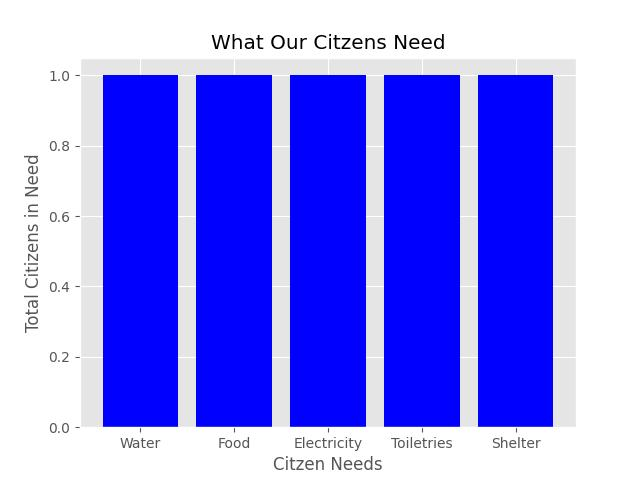
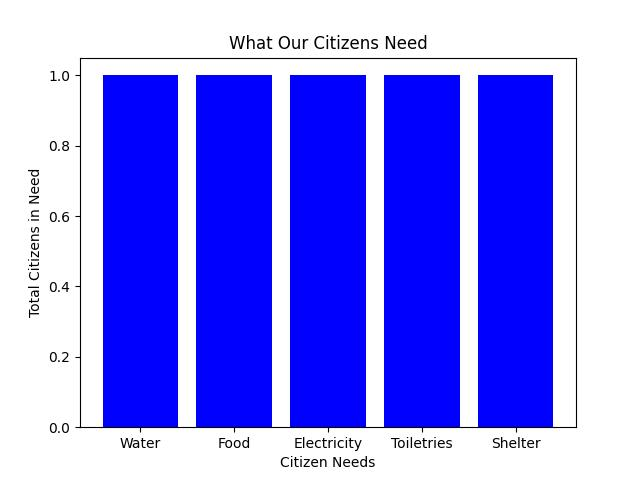
commit

Changed region(s): [[0.0312, 0.0625, 0.9062, 1.0]]

diff --git a/server.py b/server.py
@@ -1,5 +1,5 @@
 from flask import Flask, render_template, redirect, url_for, request
-import matplotlib as plt
+import matplotlib.pyplot as plt
 import csv
 from csv import DictWriter
 from tempfile import NamedTemporaryFile
